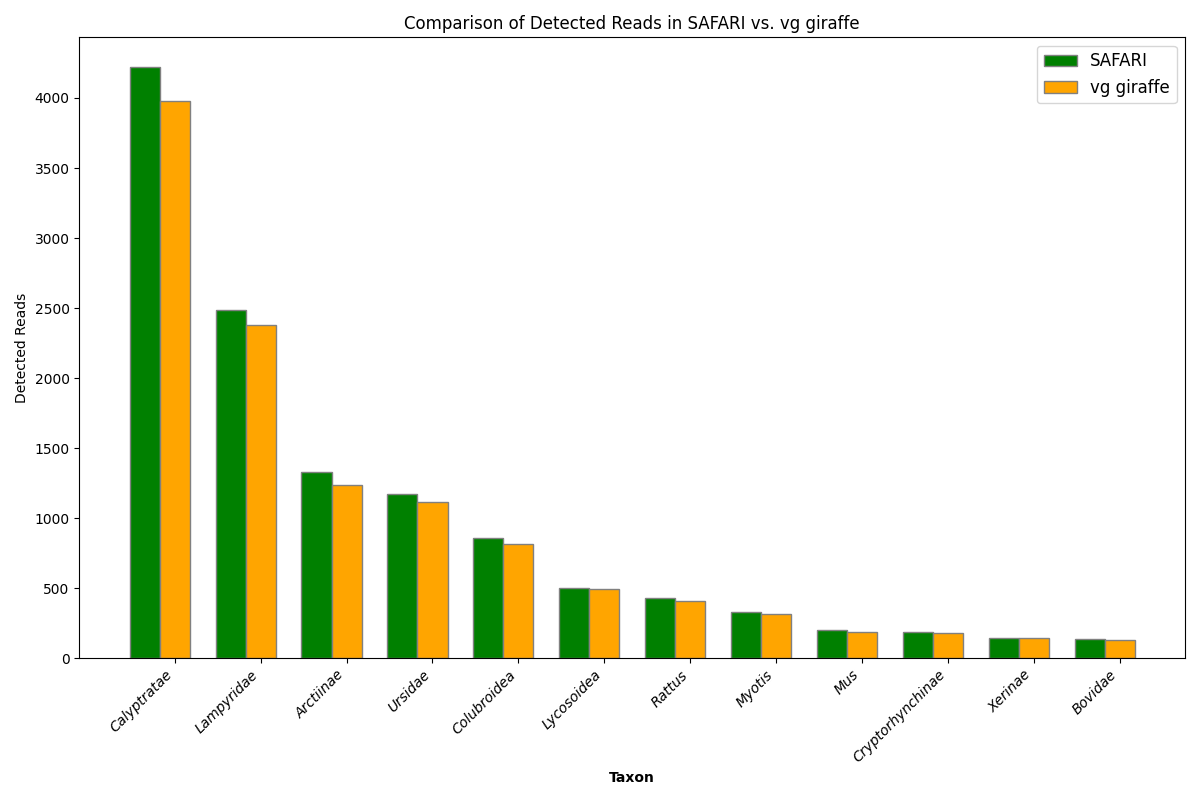
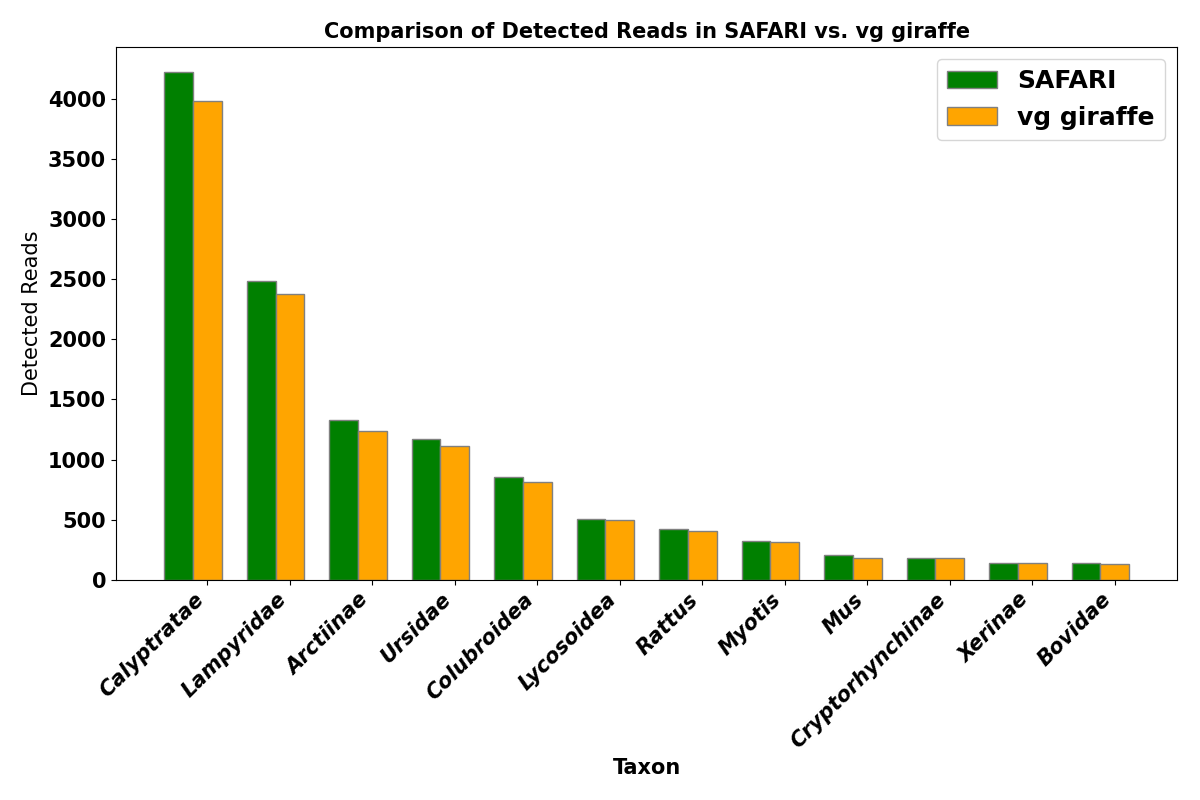
Update

diff --git a/euka_results/plot_taxa_reads.py b/euka_results/plot_taxa_reads.py
@@ -2,6 +2,10 @@
 import pandas as pd
 import matplotlib.pyplot as plt
 
+# Set global text properties
+plt.rcParams.update({'font.size': 15,  # Adjust font size as needed
+                     'font.weight': 'bold'})  # Make text bold
+
 # Load data from CSV file
 data = pd.read_csv('detected.csv')
 
@@ -19,14 +23,14 @@ bar1 = ax.bar(index, data['SAFARI_reads'], bar_width, label='SAFARI', color='g',
 bar2 = ax.bar([i + bar_width for i in index], data['vg_giraffe_reads'], bar_width, label='vg giraffe', color='orange', edgecolor='grey')
 
 # Set the position and labels for the X-axis
-ax.set_xlabel('Taxon', fontweight='bold')
+ax.set_xlabel('Taxon', fontweight='bold', fontsize=15)
 ax.set_xticks([r + bar_width for r in range(len(data))])
 ax.set_xticklabels(data['Taxon'], fontstyle='italic', rotation=45, ha='right')
 
 # Add legend, title, and labels
 ax.legend(fontsize='large')
 ax.set_ylabel('Detected Reads')
-ax.set_title('Comparison of Detected Reads in SAFARI vs. vg giraffe')
+ax.set_title('Comparison of Detected Reads in SAFARI vs. vg giraffe', fontweight='bold', fontsize=15)
 
 # Show the plot
 plt.tight_layout()
